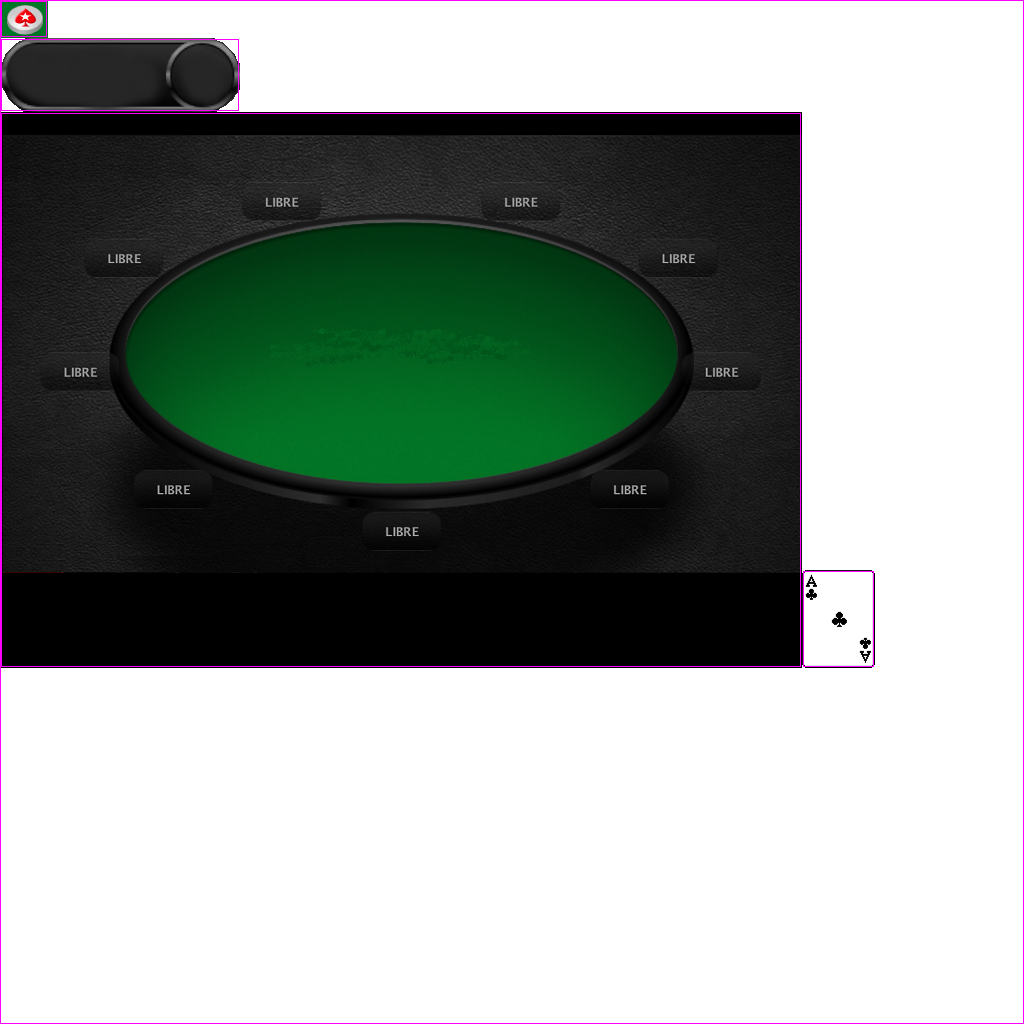
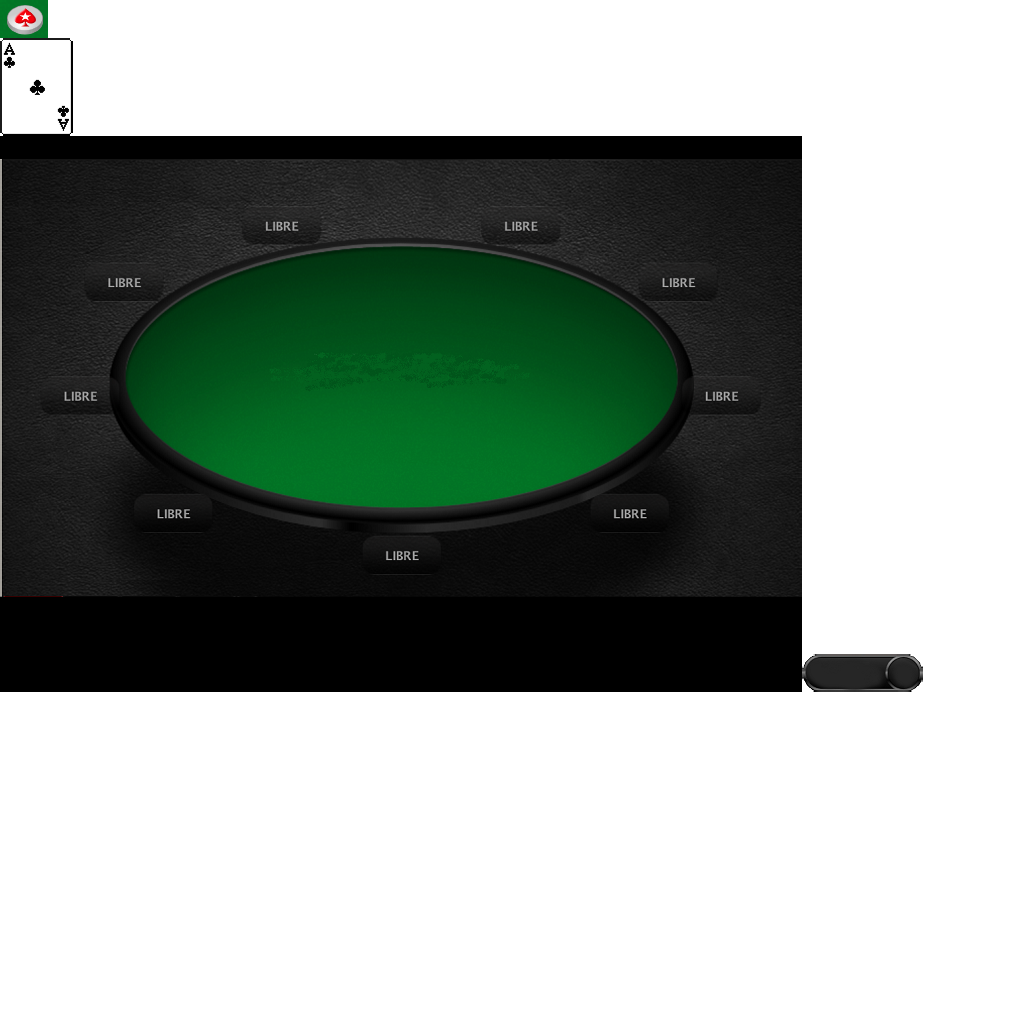
add game table

diff --git a/pokercrash/core/src/com/pokercrash/game/TableScreen.java b/pokercrash/core/src/com/pokercrash/game/TableScreen.java
@@ -1,55 +1,101 @@
 package com.pokercrash.game;
 
+import java.util.ArrayList;
+
+import com.badlogic.gdx.Gdx;
+import com.badlogic.gdx.InputProcessor;
 import com.badlogic.gdx.Screen;
+import com.badlogic.gdx.graphics.GL20;
+import com.badlogic.gdx.scenes.scene2d.Actor;
+import com.badlogic.gdx.scenes.scene2d.Event;
+import com.badlogic.gdx.scenes.scene2d.EventListener;
+import com.badlogic.gdx.scenes.scene2d.Stage;
+import com.badlogic.gdx.scenes.scene2d.ui.Image;
+import com.badlogic.gdx.scenes.scene2d.utils.ChangeListener;
+import com.badlogic.gdx.scenes.scene2d.utils.ChangeListener.ChangeEvent;
+import com.badlogic.gdx.utils.viewport.FitViewport;
 
 public class TableScreen implements Screen {
 
+	private static final float[][] SEAT_POS = { { 463.0f, 447.0f }, { 619.25f, 390.75f }, { 658.0f, 277.0f },
+			{ 565.5f, 160.75f }, { 334.25f, 118.25f }, { 111.75f, 162.0f }, { 14.25f, 278.25f }, { 64.25f, 389.5f },
+			{ 220.5f, 448.25f } };
 	private Pokercrash pokercrash;
+	private Stage stage;
+
+	private ArrayList<SeatActor> seats;
 
 	public TableScreen(Pokercrash pokercrash) {
 		this.pokercrash = pokercrash;
 	}
 
 	@Override
+	public void show() {
+		float w = Gdx.graphics.getWidth();
+		float h = Gdx.graphics.getHeight();
+		float ancho = 800;
+		stage = new Stage(new FitViewport(ancho, ancho * h / w));
+		Gdx.input.setInputProcessor(stage);
+
+		Image background = new Image(Assets.table_background);
+		stage.addActor(background);
+		seats = new ArrayList<SeatActor>();
+		for (int i = 0; i < 9; i++) {
+			SeatActor seat = new SeatActor(Assets.player);
+			seat.setPosition(SEAT_POS[i][0], SEAT_POS[i][1]);
+			seat.addListener(new EventListener() {
+				
+				@Override
+				public boolean handle(Event event) {
+					System.out.println("skdsndk");
+					return false;
+				}
+			});
+			stage.addActor(seat);
+			seats.add(seat);
+			
+			
+			
+		}
+
+	}
+
+	@Override
 	public void render(float delta) {
-		// TODO Auto-generated method stub
-		
+		Gdx.gl.glClearColor(0, 0, 0, 1);
+		Gdx.gl.glClear(GL20.GL_COLOR_BUFFER_BIT);
+		stage.act(delta);
+		stage.draw();
 	}
 
 	@Override
 	public void resize(int width, int height) {
 		// TODO Auto-generated method stub
-		
-	}
 
-	@Override
-	public void show() {
-		// TODO Auto-generated method stub
-		
 	}
 
 	@Override
 	public void hide() {
 		// TODO Auto-generated method stub
-		
+
 	}
 
 	@Override
 	public void pause() {
 		// TODO Auto-generated method stub
-		
+
 	}
 
 	@Override
 	public void resume() {
 		// TODO Auto-generated method stub
-		
+
 	}
 
 	@Override
 	public void dispose() {
 		// TODO Auto-generated method stub
-		
+
 	}
 
 }

diff --git a/pokercrash/core/src/com/pokercrash/game/SeatActor.java b/pokercrash/core/src/com/pokercrash/game/SeatActor.java
@@ -1,0 +1,55 @@
+package com.pokercrash.game;
+
+import com.badlogic.gdx.graphics.g2d.Batch;
+import com.badlogic.gdx.graphics.g2d.TextureRegion;
+import com.badlogic.gdx.scenes.scene2d.Actor;
+import com.badlogic.gdx.scenes.scene2d.Event;
+import com.badlogic.gdx.scenes.scene2d.EventListener;
+import com.badlogic.gdx.scenes.scene2d.utils.ChangeListener;
+import com.badlogic.gdx.scenes.scene2d.utils.ChangeListener.ChangeEvent;
+
+public class SeatActor extends Actor {
+
+	private TextureRegion textureRegion;
+	private String playerName ="Lugar Vacio";
+	private String stack="$ 00.00";
+	private boolean empty= true;
+
+	public SeatActor(TextureRegion textureRegion) {
+		this.textureRegion = textureRegion;
+
+	}
+	
+
+	@Override
+	public void draw(Batch batch, float parentAlpha) {
+		super.draw(batch, parentAlpha);
+		batch.draw(textureRegion, getX(), getY());
+		Assets.whiteFont.draw(batch,playerName, getX()+5, getY()+30);
+		Assets.whiteFont.draw(batch, stack, getX()+5, getY());
+//		if (!empty) {
+//			batch.draw(textureRegion, getX(), getY());
+//			Assets.whiteFont.draw(batch,playerName, getX()+5, getY()+30);
+//			Assets.whiteFont.draw(batch, stack, getX()+5, getY());
+//		}
+	
+	}
+
+	public String getPlayerName() {
+		return playerName;
+	}
+
+	public void setPlayerName(String playerName) {
+		this.playerName = playerName;
+	}
+
+	public String getStack() {
+		return stack;
+	}
+
+	public void setStack(String stack) {
+		this.stack = stack;
+	}
+
+	
+}

diff --git a/pokercrash/core/src/com/pokercrash/game/Login.java b/pokercrash/core/src/com/pokercrash/game/Login.java
@@ -2,6 +2,7 @@ package com.pokercrash.game;
 
 import com.badlogic.gdx.Gdx;
 import com.badlogic.gdx.Screen;
+import com.badlogic.gdx.graphics.Camera;
 import com.badlogic.gdx.graphics.Color;
 import com.badlogic.gdx.graphics.GL20;
 import com.badlogic.gdx.graphics.OrthographicCamera;
@@ -17,6 +18,7 @@ import com.badlogic.gdx.scenes.scene2d.ui.TextButton;
 import com.badlogic.gdx.scenes.scene2d.ui.TextButton.TextButtonStyle;
 import com.badlogic.gdx.scenes.scene2d.ui.TextField;
 import com.badlogic.gdx.scenes.scene2d.utils.ChangeListener;
+import com.badlogic.gdx.utils.viewport.FitViewport;
 import com.badlogic.gdx.utils.viewport.ScreenViewport;
 import com.badlogic.gdx.utils.viewport.Viewport;
 
@@ -53,8 +55,9 @@ public class Login implements Screen {
 	public void show() {
 		float w = Gdx.graphics.getWidth();
 		float h = Gdx.graphics.getHeight();
-		float ancho=400;
-		stage = new Stage(new ScreenViewport(new OrthographicCamera(ancho, ancho*h/w)));
+		float ancho=350;
+
+		stage = new Stage(new FitViewport(ancho, ancho*h/w));
 
 		
 		

diff --git a/pokercrash/core/src/com/pokercrash/game/Assets.java b/pokercrash/core/src/com/pokercrash/game/Assets.java
@@ -1,0 +1,32 @@
+package com.pokercrash.game;
+
+import com.badlogic.gdx.Gdx;
+import com.badlogic.gdx.graphics.g2d.BitmapFont;
+import com.badlogic.gdx.graphics.g2d.TextureAtlas;
+import com.badlogic.gdx.graphics.g2d.TextureRegion;
+
+public class Assets {
+	public static TextureAtlas atlas;
+	public static TextureRegion table_background;
+	public static TextureRegion dealer;
+	public static TextureRegion card_0_0;
+	public static TextureRegion player;
+	public static BitmapFont whiteFont;
+	public static BitmapFont blackFont;
+
+	public static void load() {
+		atlas = new TextureAtlas("images/pokercrash.pack");
+		table_background = atlas.findRegion("table-background");
+		dealer = atlas.findRegion("dealer");
+		card_0_0 = atlas.findRegion("card-0-0");
+		player = atlas.findRegion("player");
+		
+		whiteFont = new BitmapFont(Gdx.files.internal("fnt/comic_white.fnt"),false);
+	    blackFont = new BitmapFont(Gdx.files.internal("fnt/comic_black.fnt"),false);
+
+	}
+
+	public static void dispose() {
+		atlas.dispose();
+	}
+}

diff --git a/pokercrash/desktop/src/com/pokercrash/game/desktop/DesktopLauncher.java b/pokercrash/desktop/src/com/pokercrash/game/desktop/DesktopLauncher.java
@@ -14,7 +14,7 @@ public class DesktopLauncher {
 			Settings settings = new Settings();
 //			settings.maxWidth = 1024;
 //			settings.maxHeight = 1024;
-			settings.debug = true;
+//			settings.debug = true;
 			TexturePacker2.process(settings, "tema",
 			"../android/assets/images",
 			"pokercrash.pack");

diff --git a/pokercrash/core/src/com/pokercrash/game/Pokercrash.java b/pokercrash/core/src/com/pokercrash/game/Pokercrash.java
@@ -19,6 +19,7 @@ public class Pokercrash extends Game {
 
 	@Override
 	public void create() {
+		Assets.load();
 		model = new Model();
 		setScreen(new Login(this));
 	}
